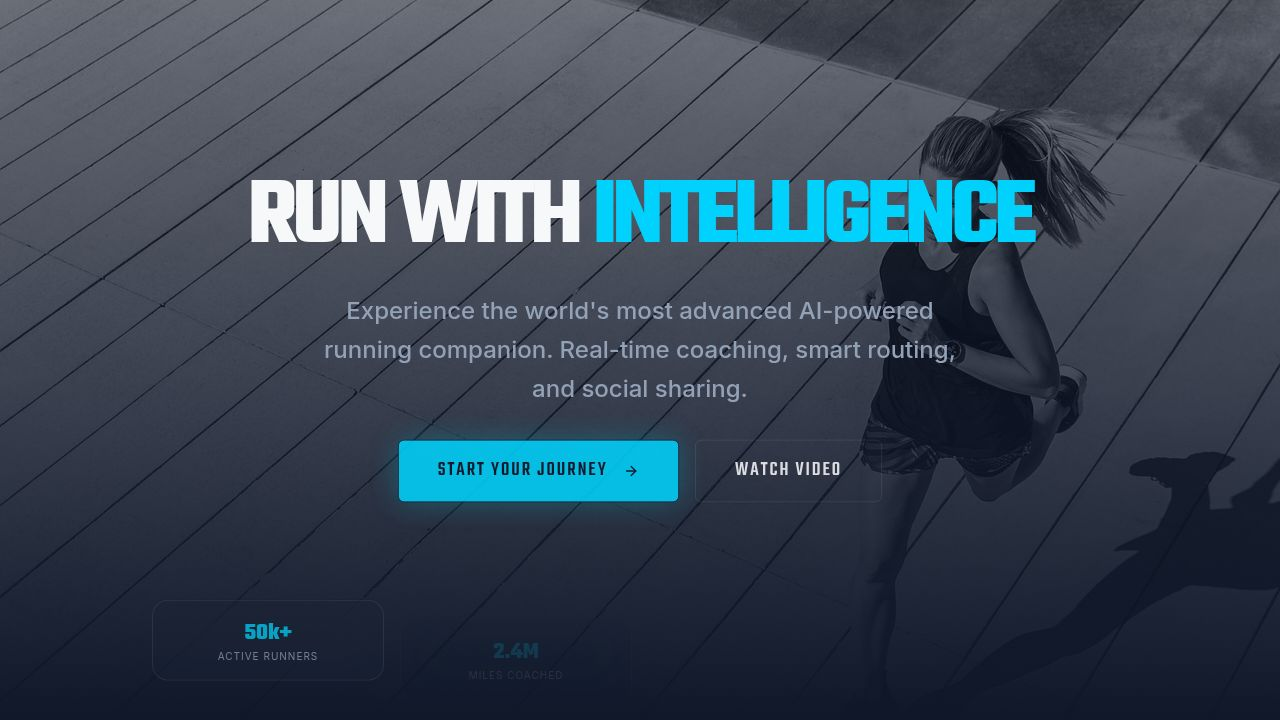
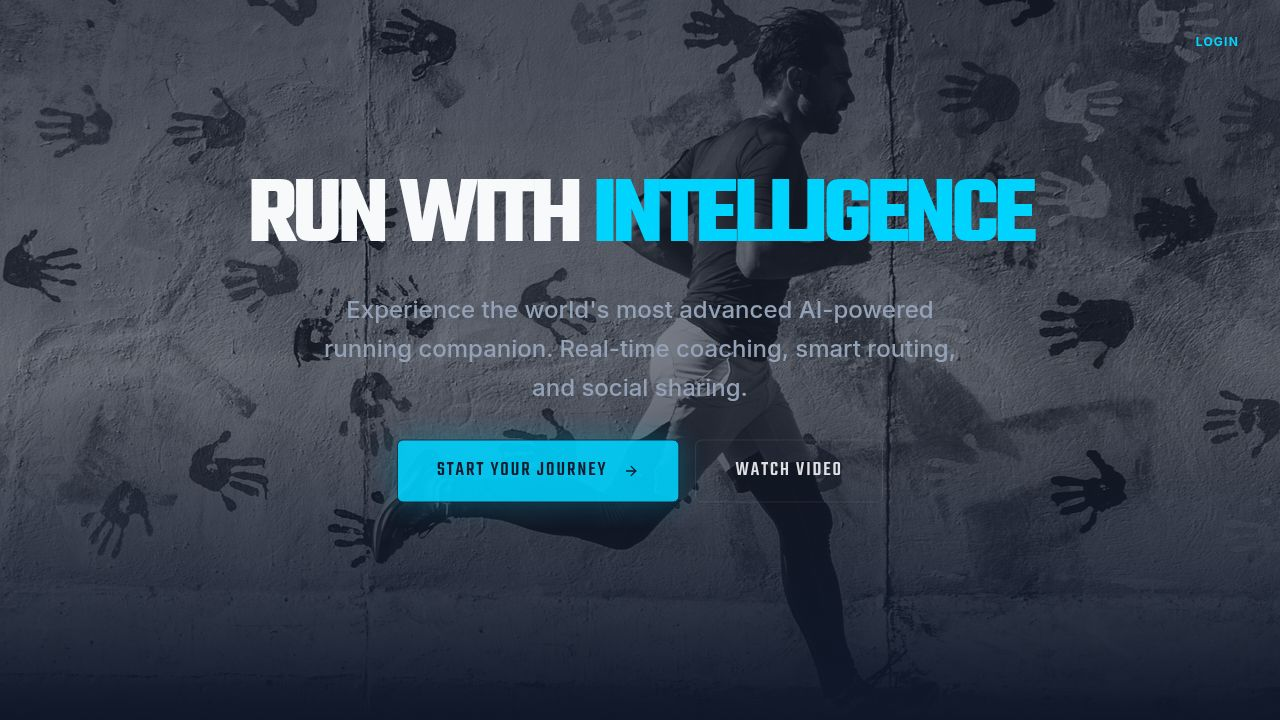
Add login and account creation options to the homepage
Integrates a new authentication flow with dedicated Login and Sign Up screens, accessible from the landing page and navigating to profile setup or the main dashboard.

Replit-Commit-Author: Agent
Replit-Commit-Session-Id: 36075008-42ed-40df-a20a-db84cf6fa224
Replit-Commit-Checkpoint-Type: full_checkpoint
Replit-Commit-Event-Id: f3ece5d7-e7a3-4728-84f3-0afabe209e56
Replit-Commit-Screenshot-Url: https://storage.googleapis.com/screenshot-production-us-central1/27b2c8ff-0638-4fe1-ba89-26d787256eba/36075008-42ed-40df-a20a-db84cf6fa224/TGMH0ku
Replit-Helium-Checkpoint-Created: true

diff --git a/client/src/pages/Auth.tsx b/client/src/pages/Auth.tsx
@@ -1,0 +1,139 @@
+import { useState } from "react";
+import { useLocation } from "wouter";
+import { Button } from "@/components/ui/button";
+import { Input } from "@/components/ui/input";
+import { Label } from "@/components/ui/label";
+import { Card, CardContent, CardDescription, CardFooter, CardHeader, CardTitle } from "@/components/ui/card";
+import { Tabs, TabsContent, TabsList, TabsTrigger } from "@/components/ui/tabs";
+import { motion } from "framer-motion";
+import { ArrowLeft, Mail, Lock, UserPlus, LogIn } from "lucide-react";
+import { toast } from "sonner";
+
+export default function Auth() {
+  const [, setLocation] = useLocation();
+  const [loading, setLoading] = useState(false);
+
+  const handleLogin = (e: React.FormEvent) => {
+    e.preventDefault();
+    setLoading(true);
+    // Mock login logic
+    setTimeout(() => {
+      const userProfile = localStorage.getItem("userProfile");
+      if (userProfile) {
+        toast.success("Welcome back!");
+        setLocation("/");
+      } else {
+        toast.error("Account not found. Please create one.");
+        setLoading(false);
+      }
+    }, 1000);
+  };
+
+  const handleCreateAccount = (e: React.FormEvent) => {
+    e.preventDefault();
+    setLoading(true);
+    // Mock account creation
+    setTimeout(() => {
+      toast.success("Account created! Let's set up your profile.");
+      setLocation("/setup");
+    }, 1000);
+  };
+
+  return (
+    <div className="min-h-screen bg-background flex flex-col items-center justify-center p-6 relative overflow-hidden">
+      {/* Background Glow */}
+      <div className="absolute top-1/4 -left-1/4 w-96 h-96 bg-primary/20 blur-[120px] rounded-full" />
+      <div className="absolute bottom-1/4 -right-1/4 w-96 h-96 bg-primary/10 blur-[120px] rounded-full" />
+
+      <motion.div
+        initial={{ opacity: 0, y: 20 }}
+        animate={{ opacity: 1, y: 0 }}
+        className="w-full max-w-md relative z-10"
+      >
+        <Button
+          variant="ghost"
+          size="sm"
+          onClick={() => setLocation("/")}
+          className="mb-8 text-muted-foreground hover:text-primary gap-2"
+        >
+          <ArrowLeft className="w-4 h-4" />
+          Back to home
+        </Button>
+
+        <Card className="border-white/10 bg-card/50 backdrop-blur-xl">
+          <Tabs defaultValue="login" className="w-full">
+            <CardHeader className="text-center">
+              <CardTitle className="text-3xl font-display font-bold uppercase tracking-tight">AI Runner Coach</CardTitle>
+              <CardDescription>Experience the future of personal training</CardDescription>
+              <TabsList className="grid w-full grid-cols-2 mt-6 bg-background/50 border border-white/5">
+                <TabsTrigger value="login" className="data-[state=active]:bg-primary data-[state=active]:text-background uppercase text-[10px] font-bold tracking-widest">Login</TabsTrigger>
+                <TabsTrigger value="signup" className="data-[state=active]:bg-primary data-[state=active]:text-background uppercase text-[10px] font-bold tracking-widest">Sign Up</TabsTrigger>
+              </TabsList>
+            </CardHeader>
+
+            <TabsContent value="login">
+              <form onSubmit={handleLogin}>
+                <CardContent className="space-y-4">
+                  <div className="space-y-2">
+                    <Label htmlFor="email">Email</Label>
+                    <div className="relative">
+                      <Mail className="absolute left-3 top-1/2 -translate-y-1/2 w-4 h-4 text-muted-foreground" />
+                      <Input id="email" type="email" placeholder="name@example.com" className="pl-10 bg-background/50 border-white/10" required />
+                    </div>
+                  </div>
+                  <div className="space-y-2">
+                    <Label htmlFor="password">Password</Label>
+                    <div className="relative">
+                      <Lock className="absolute left-3 top-1/2 -translate-y-1/2 w-4 h-4 text-muted-foreground" />
+                      <Input id="password" type="password" className="pl-10 bg-background/50 border-white/10" required />
+                    </div>
+                  </div>
+                </CardContent>
+                <CardFooter>
+                  <Button type="submit" className="w-full h-12 bg-primary text-background hover:bg-primary/90 font-bold uppercase tracking-widest" disabled={loading}>
+                    {loading ? "Logging in..." : "Login"}
+                    {!loading && <LogIn className="ml-2 w-4 h-4" />}
+                  </Button>
+                </CardFooter>
+              </form>
+            </TabsContent>
+
+            <TabsContent value="signup">
+              <form onSubmit={handleCreateAccount}>
+                <CardContent className="space-y-4">
+                  <div className="space-y-2">
+                    <Label htmlFor="new-email">Email</Label>
+                    <div className="relative">
+                      <Mail className="absolute left-3 top-1/2 -translate-y-1/2 w-4 h-4 text-muted-foreground" />
+                      <Input id="new-email" type="email" placeholder="name@example.com" className="pl-10 bg-background/50 border-white/10" required />
+                    </div>
+                  </div>
+                  <div className="space-y-2">
+                    <Label htmlFor="new-password">Password</Label>
+                    <div className="relative">
+                      <Lock className="absolute left-3 top-1/2 -translate-y-1/2 w-4 h-4 text-muted-foreground" />
+                      <Input id="new-password" type="password" className="pl-10 bg-background/50 border-white/10" required />
+                    </div>
+                  </div>
+                  <div className="space-y-2">
+                    <Label htmlFor="confirm-password">Confirm Password</Label>
+                    <div className="relative">
+                      <Lock className="absolute left-3 top-1/2 -translate-y-1/2 w-4 h-4 text-muted-foreground" />
+                      <Input id="confirm-password" type="password" className="pl-10 bg-background/50 border-white/10" required />
+                    </div>
+                  </div>
+                </CardContent>
+                <CardFooter>
+                  <Button type="submit" className="w-full h-12 bg-primary text-background hover:bg-primary/90 font-bold uppercase tracking-widest" disabled={loading}>
+                    {loading ? "Creating Account..." : "Create Account"}
+                    {!loading && <UserPlus className="ml-2 w-4 h-4" />}
+                  </Button>
+                </CardFooter>
+              </form>
+            </TabsContent>
+          </Tabs>
+        </Card>
+      </motion.div>
+    </div>
+  );
+}

diff --git a/client/src/pages/LandingPage.tsx b/client/src/pages/LandingPage.tsx
@@ -43,6 +43,17 @@ export default function LandingPage() {
 
   return (
     <div className="min-h-screen bg-background text-foreground overflow-x-hidden">
+      {/* Navigation */}
+      <nav className="fixed top-0 left-0 right-0 z-50 p-6 flex justify-end">
+        <Button 
+          variant="ghost" 
+          onClick={() => setLocation("/auth")}
+          className="text-primary hover:text-primary/80 hover:bg-primary/10 uppercase text-xs font-bold tracking-widest"
+        >
+          Login
+        </Button>
+      </nav>
+
       {/* Hero Section */}
       <section className="relative min-h-screen flex items-center justify-center pt-20 pb-32 px-6 overflow-hidden">
         <div className="absolute inset-0 z-0">
@@ -77,7 +88,7 @@ export default function LandingPage() {
             <Button 
               size="lg" 
               className="h-16 px-10 text-xl font-display uppercase tracking-widest bg-primary text-background hover:bg-primary/90 shadow-[0_0_30px_rgba(6,182,212,0.4)] group"
-              onClick={() => setLocation("/setup")}
+              onClick={() => setLocation("/auth")}
             >
               Start Your Journey
               <ArrowRight className="ml-2 w-6 h-6 group-hover:translate-x-1 transition-transform" />

diff --git a/client/src/pages/Home.tsx b/client/src/pages/Home.tsx
@@ -192,9 +192,9 @@ export default function Home() {
       <header className="mb-8 flex items-center justify-between">
         <div>
           <h1 className="text-4xl font-display font-bold text-primary uppercase tracking-wider">
-            {profile?.coachName || "AI Coach"}
+            {profile?.name}
           </h1>
-          <p className="text-muted-foreground text-sm">Welcome, {profile?.name}. Plan your run</p>
+          <p className="text-muted-foreground text-sm">Welcome, Plan your run with {profile?.coachName}  </p>
         </div>
         <motion.div 
           className="h-10 w-10 rounded-full bg-primary/20 flex items-center justify-center border border-primary/50 cursor-pointer hover:bg-primary/30 transition-colors overflow-hidden"

diff --git a/client/src/App.tsx b/client/src/App.tsx
@@ -14,6 +14,7 @@ import ProfileSetup from "@/pages/ProfileSetup";
 import Profile from "@/pages/Profile";
 import PrivacyPolicy from "@/pages/PrivacyPolicy";
 import TermsOfUse from "@/pages/TermsOfUse";
+import Auth from "@/pages/Auth";
 
 function Router() {
   const [hasProfile, setHasProfile] = useState(false);
@@ -33,6 +34,7 @@ function Router() {
     <Switch>
       <Route path="/privacy" component={PrivacyPolicy} />
       <Route path="/terms" component={TermsOfUse} />
+      <Route path="/auth" component={Auth} />
       {!hasProfile && (
         <>
           <Route path="/" component={LandingPage} />
